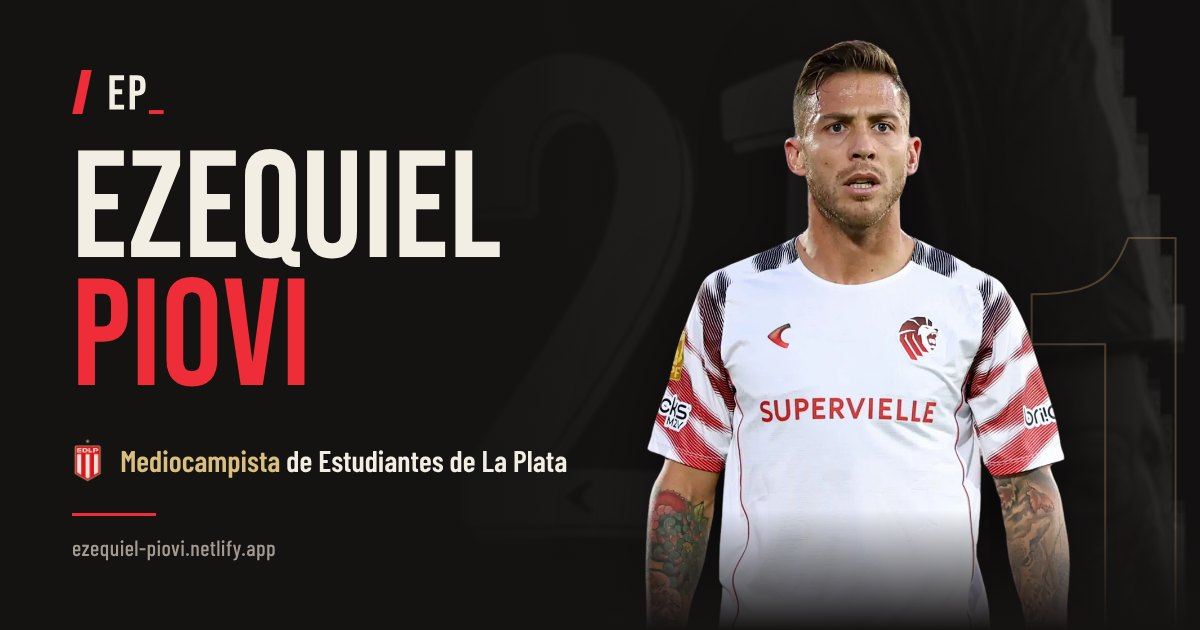
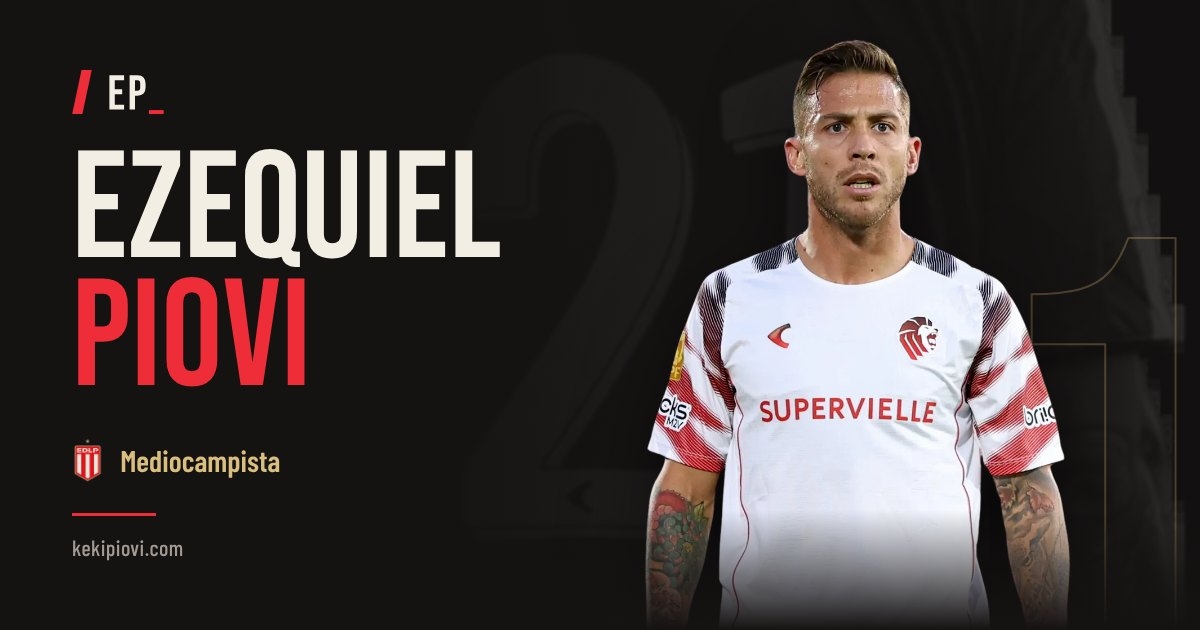
SEO: dominio kekipiovi.com y og-image sin el nombre del club
- Canonical, og:url, og:image, twitter:image, JSON-LD (@id y url),
  sitemap y robots.txt apuntan a https://kekipiovi.com.
- og-image: queda el escudo con "Mediocampista" (sin "de Estudiantes de
  La Plata") y la URL kekipiovi.com.

Claude-Session: https://claude.ai/code/session_01SrwUJRUdKqhj8Zfc3cJtaH

Changed region(s): [[0.0617, 0.8444, 0.2467, 0.9048], [0.2158, 0.7238, 0.4933, 0.754]]

diff --git a/index.html b/index.html
@@ -11,7 +11,7 @@
     <meta name="description" content="Sitio oficial de Ezequiel &quot;Keki&quot; Piovi, mediocampista de Estudiantes de La Plata. Estadísticas, trayectoria, videos, fotos, prensa y contacto." />
     <meta name="author" content="Ezequiel Piovi" />
     <meta name="robots" content="index, follow, max-image-preview:large" />
-    <link rel="canonical" href="https://ezequiel-piovi.netlify.app/" />
+    <link rel="canonical" href="https://kekipiovi.com/" />
 
     <!-- Íconos (logo del navbar) -->
     <link rel="icon" href="/favicon.ico" sizes="48x48" />
@@ -23,11 +23,11 @@
     <meta property="og:type" content="profile" />
     <meta property="og:site_name" content="Ezequiel Piovi" />
     <meta property="og:locale" content="es_AR" />
-    <meta property="og:url" content="https://ezequiel-piovi.netlify.app/" />
+    <meta property="og:url" content="https://kekipiovi.com/" />
     <meta property="og:title" content="Ezequiel Piovi | Mediocampista de Estudiantes de La Plata" />
     <meta property="og:description" content="Estadísticas, trayectoria, videos, fotos, prensa y contacto del mediocampista argentino." />
-    <meta property="og:image" content="https://ezequiel-piovi.netlify.app/og-image.jpg" />
-    <meta property="og:image:secure_url" content="https://ezequiel-piovi.netlify.app/og-image.jpg" />
+    <meta property="og:image" content="https://kekipiovi.com/og-image.jpg" />
+    <meta property="og:image:secure_url" content="https://kekipiovi.com/og-image.jpg" />
     <meta property="og:image:type" content="image/jpeg" />
     <meta property="og:image:width" content="1200" />
     <meta property="og:image:height" content="630" />
@@ -40,7 +40,7 @@
     <meta name="twitter:card" content="summary_large_image" />
     <meta name="twitter:title" content="Ezequiel Piovi | Mediocampista de Estudiantes de La Plata" />
     <meta name="twitter:description" content="Estadísticas, trayectoria, videos, fotos, prensa y contacto del mediocampista argentino." />
-    <meta name="twitter:image" content="https://ezequiel-piovi.netlify.app/og-image.jpg" />
+    <meta name="twitter:image" content="https://kekipiovi.com/og-image.jpg" />
     <meta name="twitter:image:alt" content="Ezequiel Piovi con la camiseta de Estudiantes de La Plata, junto a su nombre y su posición" />
 
     <!-- Datos estructurados: sitio + página de perfil + persona -->
@@ -50,32 +50,32 @@
       "@graph": [
         {
           "@type": "WebSite",
-          "@id": "https://ezequiel-piovi.netlify.app/#website",
-          "url": "https://ezequiel-piovi.netlify.app/",
+          "@id": "https://kekipiovi.com/#website",
+          "url": "https://kekipiovi.com/",
           "name": "Ezequiel Piovi",
           "inLanguage": "es-AR"
         },
         {
           "@type": "ProfilePage",
-          "@id": "https://ezequiel-piovi.netlify.app/#profile",
-          "url": "https://ezequiel-piovi.netlify.app/",
+          "@id": "https://kekipiovi.com/#profile",
+          "url": "https://kekipiovi.com/",
           "name": "Ezequiel Piovi | Mediocampista de Estudiantes de La Plata",
           "inLanguage": "es-AR",
-          "isPartOf": { "@id": "https://ezequiel-piovi.netlify.app/#website" },
-          "primaryImageOfPage": "https://ezequiel-piovi.netlify.app/og-image.jpg",
-          "mainEntity": { "@id": "https://ezequiel-piovi.netlify.app/#person" }
+          "isPartOf": { "@id": "https://kekipiovi.com/#website" },
+          "primaryImageOfPage": "https://kekipiovi.com/og-image.jpg",
+          "mainEntity": { "@id": "https://kekipiovi.com/#person" }
         },
         {
           "@type": "Person",
-          "@id": "https://ezequiel-piovi.netlify.app/#person",
+          "@id": "https://kekipiovi.com/#person",
           "name": "Ezequiel Piovi",
           "givenName": "Ezequiel",
           "familyName": "Piovi",
           "alternateName": ["Keki Piovi", "Lucas Ezequiel Piovi"],
           "jobTitle": "Futbolista profesional, mediocampista",
           "description": "Mediocampista argentino de Estudiantes de La Plata. Campeón de la Copa Sudamericana 2023 con Liga de Quito.",
-          "image": "https://ezequiel-piovi.netlify.app/og-image.jpg",
-          "url": "https://ezequiel-piovi.netlify.app/",
+          "image": "https://kekipiovi.com/og-image.jpg",
+          "url": "https://kekipiovi.com/",
           "birthDate": "1992-08-20",
           "birthPlace": { "@type": "Place", "name": "Morón, Buenos Aires, Argentina" },
           "nationality": { "@type": "Country", "name": "Argentina" },
